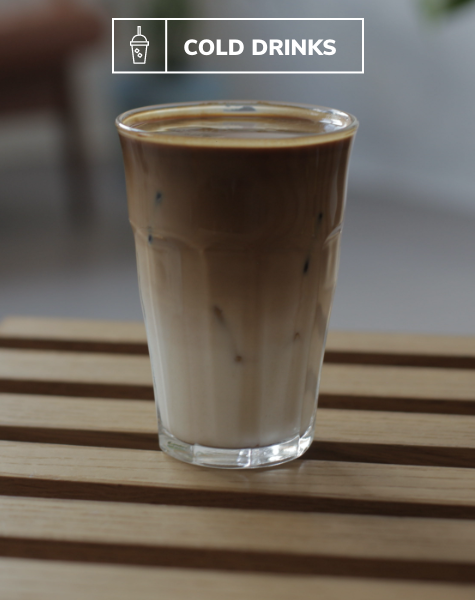
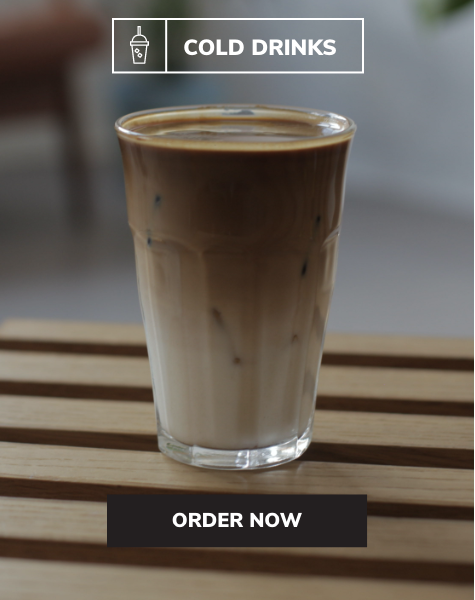
change order now colour

diff --git a/src/components/mainSlides.js b/src/components/mainSlides.js
@@ -1,42 +1,16 @@
 import React from "react"
 //import Img from "gatsby-image"
-import { graphql, useStaticQuery } from "gatsby"
+
 //import BackgroundImage from "gatsby-background-image"
 import Slider from "react-slick"
 
 import Slide from "./slide"
 
 const MainSlides = props => {
-  const data = useStaticQuery(graphql`
-    {
-      banner1: file(relativePath: { eq: "banner1.png" }) {
-        childImageSharp {
-          fluid(quality: 90, maxWidth: 2000) {
-            ...GatsbyImageSharpFluid_withWebp
-          }
-        }
-      }
-      banner2: file(relativePath: { eq: "banner2.png" }) {
-        childImageSharp {
-          fluid(quality: 90, maxWidth: 2000) {
-            ...GatsbyImageSharpFluid_withWebp
-          }
-        }
-      }
-
-      banner3: file(relativePath: { eq: "banner3.png" }) {
-        childImageSharp {
-          fluid(quality: 90, maxWidth: 2000) {
-            ...GatsbyImageSharpFluid_withWebp
-          }
-        }
-      }
-    }
-  `)
+ 
+      
   let nudge = props.menuState ? "nudge" : ""
-  const banner1 = data.banner1.childImageSharp.fluid
-  const banner2 = data.banner2.childImageSharp.fluid
-  const banner3 = data.banner3.childImageSharp.fluid
+  
 
   const settings = {
     dots: true,
@@ -57,7 +31,7 @@ const MainSlides = props => {
         <Slide
           banner={1}
           text={
-            <h1 className={`${textSize} uppercase text-white  font-extrabold `}>
+            <h1 className={`${textSize} uppercase text-white  font-extrabold  max-w-max `}>
               Good <br /> coffee <br /> good <br /> morning
             </h1>
           }

diff --git a/src/components/ourStory.js b/src/components/ourStory.js
@@ -32,15 +32,10 @@ const OurStory = props => {
     }
   `)
 
-  const banner = data.banner.childImageSharp.fluid
 
   return (
     <section className="mainSlidesContainer ">
-      {/* <BackgroundImage
-        fluid={banner}
-        background-size="contain"
-        className="StoryBgContainer h-screen mt-40 "
-      ></BackgroundImage> */}
+     
       <div className="bannerContainer relative ">
         <div className="topText ml-4 sm:ml-20 lg:ml-0   -mb-32 md:-mb-44 mt-20 sm:mt-32 lg:mt-0 lg:absolute lg:top-32 2xl:top-60 left-0 lg:left-20 2xl:left-40">
           <span className="uppercase font-extrabold text-sm xxsm:text-lg xsm:text-2xl md:text-3xl">about everyday</span>
@@ -70,7 +65,7 @@ const OurStory = props => {
         <div className="stepsContainer w-full xl:w-2/3 text-center mx-auto">
         <Img fluid={data.steps.childImageSharp.fluid} className="menu-pic " />
         <OrderNow display={ 
-          <div className="orderBtn text-white p-4 uppercase font-extrabold bg-black">
+          <div className="orderBtn text-white p-4 uppercase font-extrabold bg-black text-blue">
           order now!
           </div>
         }/>

diff --git a/src/components/followus.js b/src/components/followus.js
@@ -13,25 +13,21 @@ const Followus = () => {
           }
         }
       }
-  
     }
   `)
 
   return (
-    <section className="followUs w-full">
-      <h1 className="uppercase font-extrabold max-w-max mx-auto text-center pt-20">where to find us</h1>
-    <OrderNow
-            display={
-              <Img
-                fluid={data.whereToFindUs.childImageSharp.fluid}
-                className="menu-pic"
-                
-                className="w-full"
-              />
-            }
-            buttonStyle="w-full"
+    <section className="followUs w-full  mt-20›">
+      {/* <h1 className="uppercase font-extrabold max-w-max mx-auto text-center pt-20">where to find us</h1> */}
+      <OrderNow
+        display={
+          <Img
+            fluid={data.whereToFindUs.childImageSharp.fluid}
+            className="menu-pic w-full"
           />
-          
+        }
+        buttonStyle="w-full"
+      />
     </section>
   )
 }

diff --git a/src/components/menu.js b/src/components/menu.js
@@ -141,13 +141,13 @@ const Menu = () => {
             buttonStyle="w-full p-2"
           />
         </Slider>
-        {/* <div className="max-w-max mx-auto my-10">
+        <div className="max-w-max mx-auto my-10">
         <OrderNow display={ 
-          <div className="orderBtn text-white text-sm sm:text-xl p-2 md:p-4 uppercase font-extrabold bg-black  ">
+          <div className="orderBtn text-white text-sm sm:text-xl p-2 md:p-4 uppercase font-extrabold bg-black text-blue ">
           Order Now!
           </div>
         }/>
-        </div> */}
+        </div>
       </div>
     </section>
   )

diff --git a/src/components/ordernow.js b/src/components/ordernow.js
@@ -1,23 +1,10 @@
 import React from "react"
 import { Modal } from "semantic-ui-react"
 import CountryList from "./countrylist"
-import { graphql, useStaticQuery } from "gatsby"
-import Img from "gatsby-image"
 
 function OrderNow(props) {
   const [open, setOpen] = React.useState(false)
 
-  const data = useStaticQuery(graphql`
-    {
-      orderNow: file(relativePath: { eq: "order-now.png" }) {
-        childImageSharp {
-          fluid(quality: 90, maxWidth: 480) {
-            ...GatsbyImageSharpFluid_withWebp
-          }
-        }
-      }
-    }
-  `)
 
   return (
     <Modal

diff --git a/src/pages/story.js b/src/pages/story.js
@@ -1,4 +1,4 @@
-import React, { useState} from "react"
+import React from "react"
 import Header from "../components/header"
 import SoMeBar from "../components/soMeBar"
 import Footer from "../components/footer"
@@ -11,7 +11,7 @@ import 'semantic-ui-css/semantic.min.css';
 // import Plx from "react-plx"
 
 export default function Home() {
-  let [menuActive, setmenuActive] = useState(false);
+  // let [menuActive, setmenuActive] = useState(false);
  
    
    

diff --git a/src/components/header.js b/src/components/header.js
@@ -27,7 +27,7 @@ const Header = () => {
         </div>
         <div className="right">
         <OrderNow display={ 
-          <div className="orderBtn text-white text-sm md:text-xl p-2 md:p-4 uppercase font-extrabold bg-black ">
+          <div className="orderBtn text-white text-sm md:text-xl p-2 md:p-4 uppercase font-extrabold bg-black text-blue " >
           Order Now!
           </div>
         }/>

diff --git a/src/components/slide.js b/src/components/slide.js
@@ -45,7 +45,7 @@ const Slide = props => {
         {props.text}
         <OrderNow
           display={
-            <div className="orderBtn text-white p-4 uppercase text-xl sm:text-2xl font-extrabold bg-black">
+            <div className="orderBtn text-white p-4 uppercase text-xl sm:text-2xl font-extrabold bg-black text-blue">
               order now! 
             </div>
           }

diff --git a/tailwind.config.js b/tailwind.config.js
@@ -20,6 +20,8 @@ module.exports = {
         black: "#2a2c2a",
         red: "#d71d24",
         yellow: "#ffd250",
+        pink: "#DF1995",
+        blue: " #2CCCD3"
       },
       lineHeight: {
         "extra-loose": "2.5",

diff --git a/src/styles/index.scss b/src/styles/index.scss
@@ -4,6 +4,9 @@ $break-large: 1100px;
 $green:#009341;
 $yellow:#ffd250;
 
+$primary-blue:  #2CCCD3;
+$primary-pink:  #DF1995;
+
 @import "header";
 @import "mainSlides";
 @import "menu";

diff --git a/src/styles/mainSlides.scss b/src/styles/mainSlides.scss
@@ -1,4 +1,6 @@
 .mainSlidesContainer {
+
+  
   .slick-slider {
     height: 100%;
 
